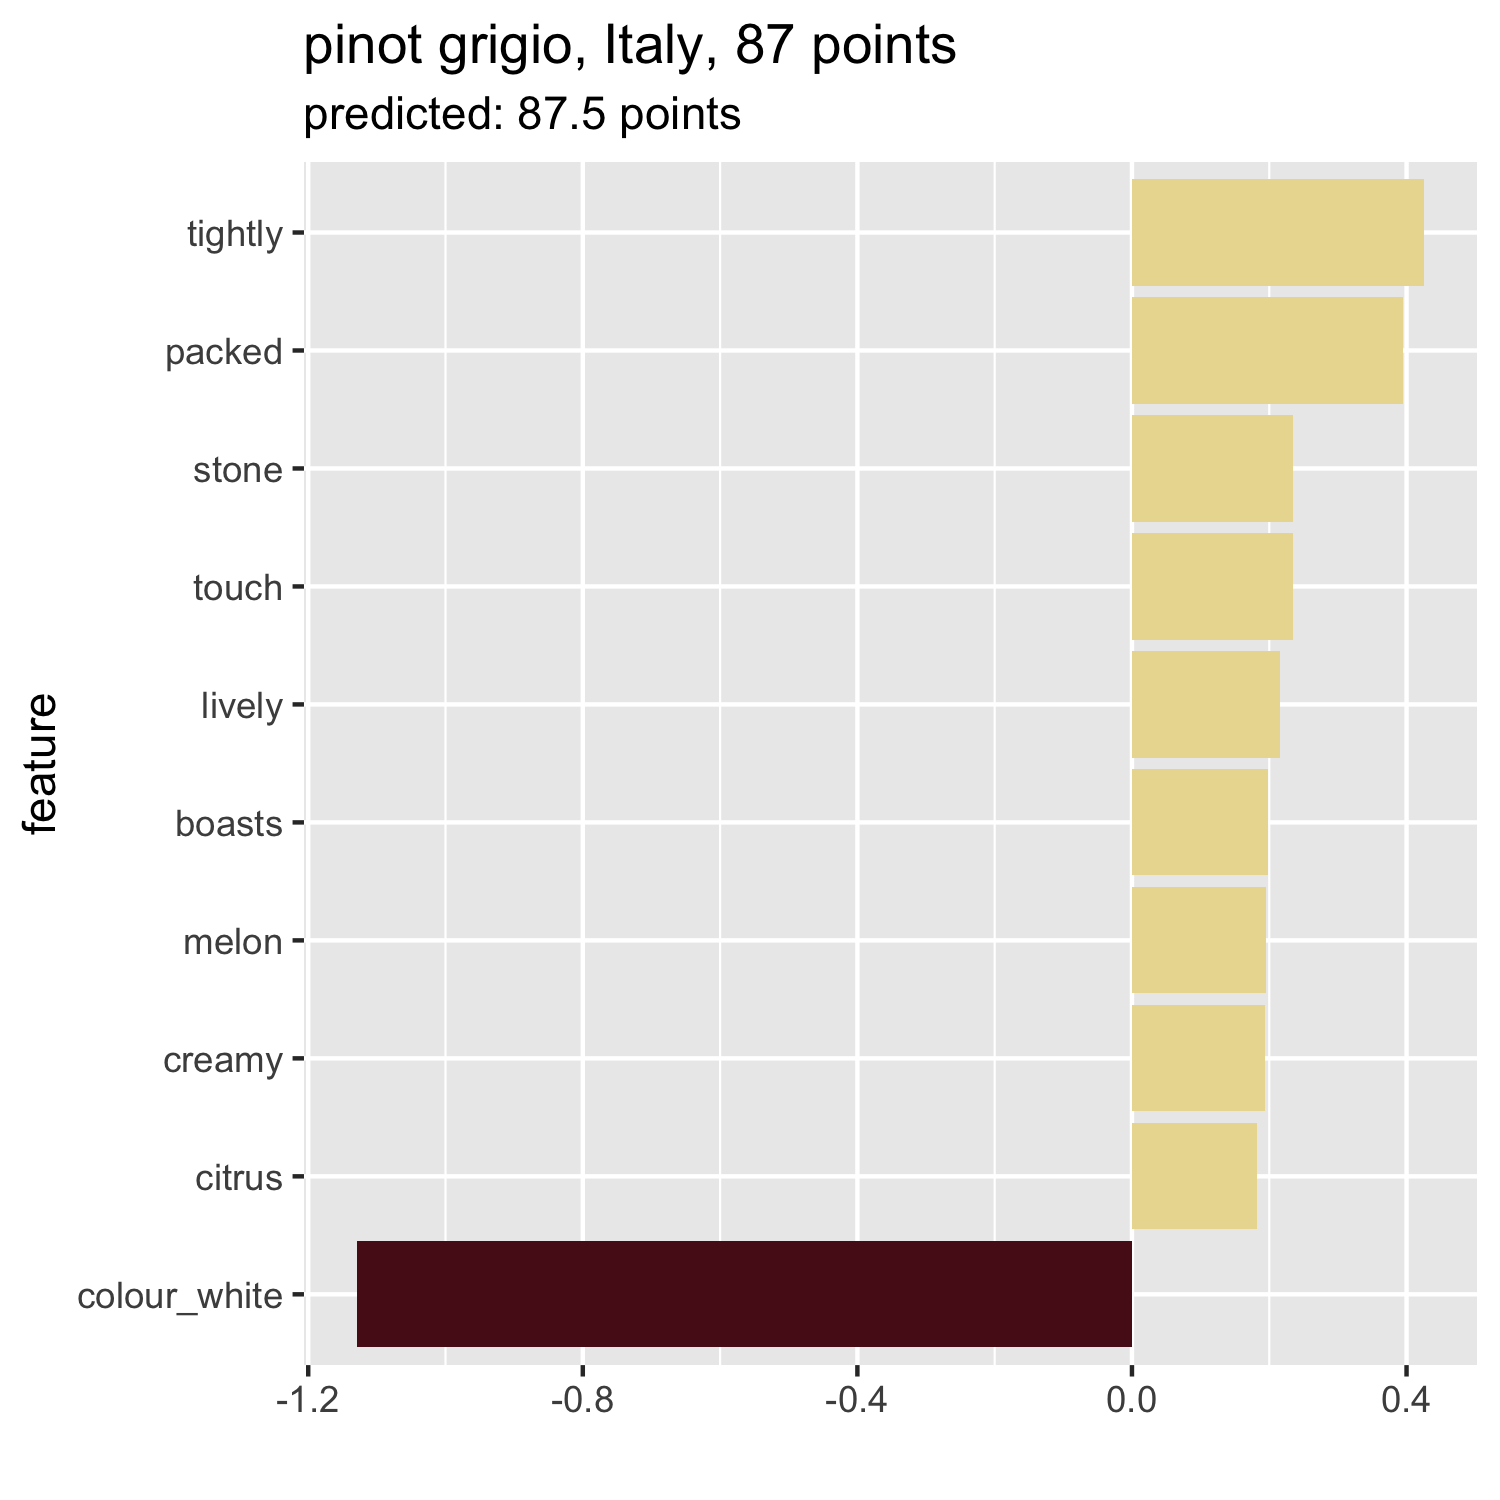
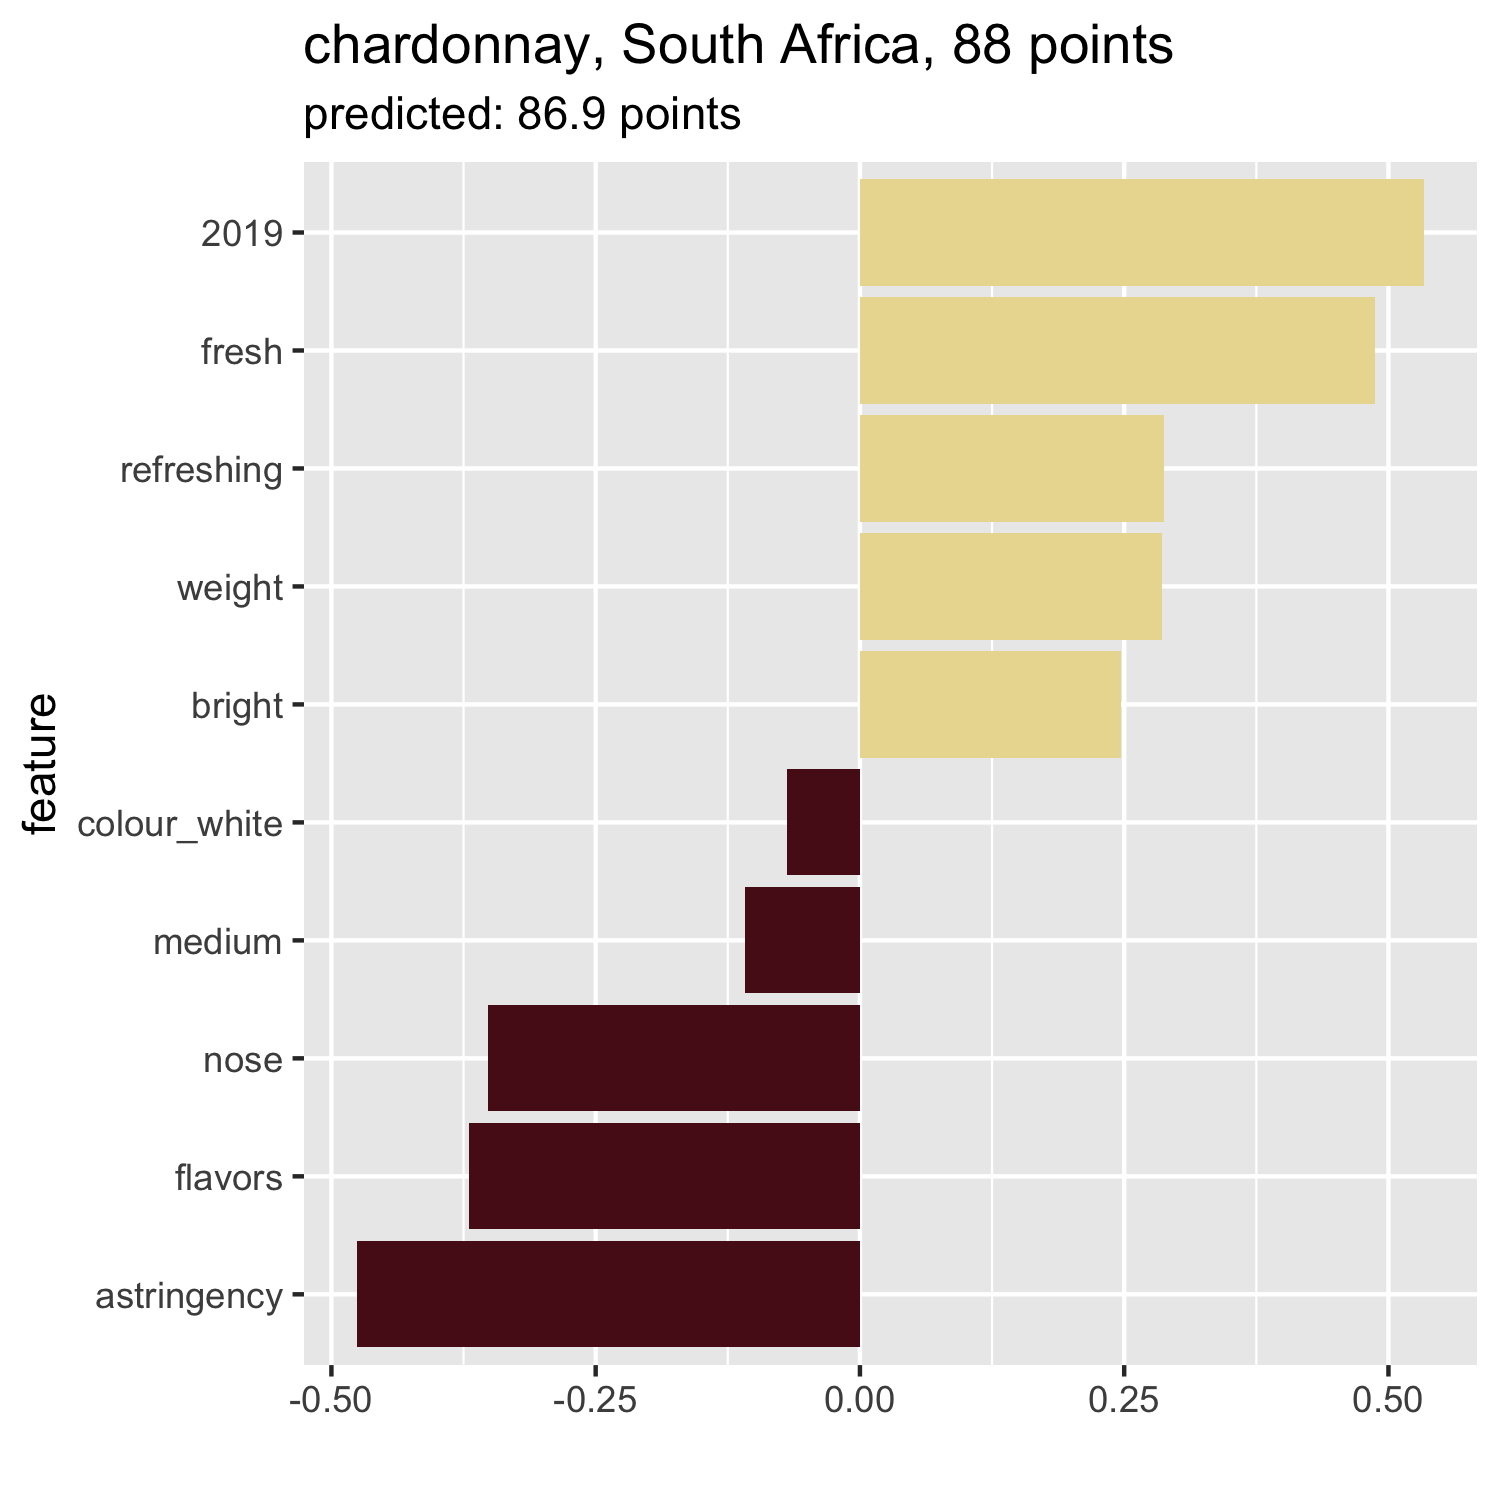
Added colour_red as a stop word (Covered by the absence of white/rose)

diff --git a/2019-04-10_melburn-wine.html b/2019-04-10_melburn-wine.html
@@ -488,7 +488,8 @@ vocabulary &lt;- text2vec::create_vocabulary(
   wine_train_tokens, 
   stopwords = c(
     tidytext::stop_words$word, 
-    "wine", "fruit", "flavour", "flavor"
+    "wine", "fruit", "flavour", "flavor",
+    "colour_red" # defined by the absence of white or rosé
   )
 ) %&gt;% 
   text2vec::prune_vocabulary(
@@ -663,11 +664,11 @@ wine_explainer &lt;- lime::lime(
 
 .pull-left[
 
-&gt; Fresh, creamy and tightly packed with stone fruit and melon, this lively Pinot Grigio would pair with appetizers or seafood. It boasts a soft, smooth finish with a touch of citrus acidity at the end. colour_white
+&gt; This is a solid and well-made Chardonnay, with notes of yellow apple, melon and fresh hay on the nose and mouth. There's a subtle astringency to the fruit flavors on the medium-weight palate, with bright acidity that carries through to the clean and refreshing finish. Drink now–2019. colour_white
 
 
 ```r
-wine_a &lt;- filter(wine, index == 17640)
+wine_a &lt;- filter(wine, index == 104742)
 wine_a_explanation &lt;- lime::explain(
   wine_a$description,
   wine_explainer,
@@ -678,7 +679,7 @@ wine_a_explanation &lt;- lime::explain(
 
 ```r
 custom_lime_explanation_plot(
-  wine_a_explanation, wine_a
+  wine_a_explanation, wine_a 
 )
 ```
 ]
@@ -692,11 +693,11 @@ custom_lime_explanation_plot(
 
 .pull-left[
 
-&gt; Pronounced dust, pollen and earth tones lend savoriness to this otherwise citrusy wine. Racy acidity and fresh tangerine and lemon flavors turn herbal on the finish. Drink now. colour_white
+&gt; Coconut, smoke and sweet aromas of cola, berry jam and fine tobacco make the bouquet inviting. In the mouth, it maintains freshness due to good acidity, while the flavors of earthy blackberry and plum come across dense and right. Firm and tannic on the finish; drink from 2012–2016. colour_red
 
 
 ```r
-wine_b &lt;- filter(wine, index == 85)
+wine_b &lt;- filter(wine, index == 51558)
 wine_b_explanation &lt;- lime::explain(
   wine_b$description,
   wine_explainer,
